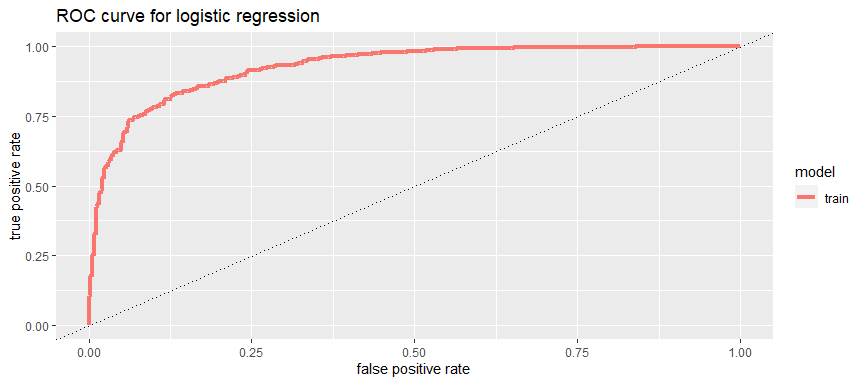
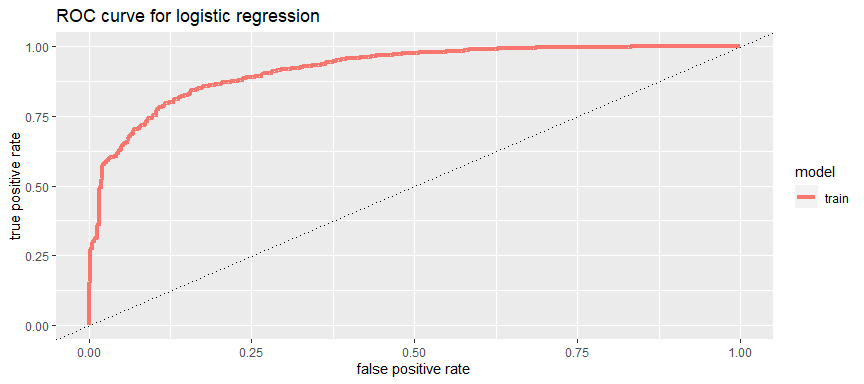
Edited some x-variables

diff --git a/Abizer.md b/Abizer.md
@@ -28,17 +28,25 @@ set as Democrat if winner16 is Dem and Republican if winner16 is Rep
 ```
 
 We chose the x-variables by determining which variables were most
-significant using a regression analysis
+significant using a regression analysis. We then removed certain
+variables such as Percent living in multi unit housing and percent
+living in same house for multiple years. Our reasoning is that if a
+house has a high median value, the occupants will probably have separate
+rooms. Also any person may choose to live in a house for several years
+because it might be closer to work, family etc. We don’t think that it
+suggests anything about the voter.
 
 ``` r
 > library(plyr)
-> train1 <- train %>% plyr::rename(c("RTN130207"="Retail_Sales_07","INC910213"="Income_per_capita","HSG096213"="Percent_multi_unit_housing","HSG495213"="Median_house_value","POP815213"="Spoken_non_english_lang","EDU635213"="Percent_Highschool_grad","EDU685213"="Percent_Undergrad","POP715213"="Percent_living_in_same_house_multiple_years","AGE295214"="percent_under_18","AGE775214"="percent_over_65","PST120214"="percent_change_in_pop"))
+> train1 <- train %>% plyr::rename(c("RTN130207"="Retail_Sales_07","INC910213"="Income_per_capita","HSG096213"="Percent_multi_unit_housing","POP715213"="Percent_living_in_same_house_multiple_years","HSG495213"="Median_house_value","POP815213"="Spoken_non_english_lang","EDU635213"="Percent_Highschool_grad","EDU685213"="Percent_Undergrad","AGE295214"="percent_under_18","AGE775214"="percent_over_65","PST120214"="percent_change_in_pop"))
 > 
-> test1 <- test %>% plyr::rename(c("RTN130207"="Retail_Sales_07","INC910213"="Income_per_capita","HSG096213"="Percent_multi_unit_housing","HSG495213"="Median_house_value","POP815213"="Spoken_non_english_lang","EDU635213"="Percent_Highschool_grad","EDU685213"="Percent_Undergrad","POP715213"="Percent_living_in_same_house_multiple_years","AGE295214"="percent_under_18","AGE775214"="percent_over_65","PST120214"="percent_change_in_pop"))
+> test1 <- test %>% plyr::rename(c("RTN130207"="Retail_Sales_07","INC910213"="Income_per_capita","HSG096213"="Percent_multi_unit_housing","HSG495213"="Median_house_value","POP815213"="Spoken_non_english_lang","EDU635213"="Percent_Highschool_grad","POP715213"="Percent_living_in_same_house_multiple_years","EDU685213"="Percent_Undergrad","AGE295214"="percent_under_18","AGE775214"="percent_over_65","PST120214"="percent_change_in_pop")) 
 > 
-> Train1 <- train1 %>% select(Retail_Sales_07, Income_per_capita, Percent_multi_unit_housing, Median_house_value, Spoken_non_english_lang, Percent_Highschool_grad, Percent_Undergrad, Percent_living_in_same_house_multiple_years, percent_under_18, percent_over_65, percent_change_in_pop,winner)
+> Train1 <- train1 %>% select(Retail_Sales_07, Income_per_capita, Median_house_value, Spoken_non_english_lang, Percent_Highschool_grad, Percent_Undergrad,  percent_under_18, percent_over_65, percent_change_in_pop,winner)
 > 
-> xvars <- str_c(names(Train1)[1:11], collapse="+")
+> Test1 <- test1 %>% select(Retail_Sales_07, Income_per_capita, Median_house_value, Spoken_non_english_lang, Percent_Highschool_grad, Percent_Undergrad,  percent_under_18, percent_over_65, percent_change_in_pop)
+> 
+> xvars <- str_c(names(Train1)[1:9], collapse="+")
 > myform <- as.formula(str_c("winner ~ ", xvars))
 > 
 > winner.glm <- glm(myform, data = Train1, family = binomial)
@@ -50,43 +58,28 @@ glm(formula = myform, family = binomial, data = Train1)
 
 Deviance Residuals: 
     Min       1Q   Median       3Q      Max  
--3.2543   0.1038   0.2097   0.3633   3.5090  
+-3.0409   0.1223   0.2359   0.3907   4.5720  
 
 Coefficients:
-                                              Estimate Std. Error z value
-(Intercept)                                  3.677e+00  2.400e+00   1.532
-Retail_Sales_07                             -1.120e-07  3.028e-08  -3.699
-Income_per_capita                            3.043e-04  3.339e-05   9.114
-Percent_multi_unit_housing                  -9.933e-02  1.355e-02  -7.329
-Median_house_value                          -1.336e-05  1.917e-06  -6.971
-Spoken_non_english_lang                     -4.140e-02  7.666e-03  -5.400
-Percent_Highschool_grad                      6.898e-02  1.896e-02   3.638
-Percent_Undergrad                           -1.938e-01  1.920e-02 -10.091
-Percent_living_in_same_house_multiple_years -1.490e-01  2.348e-02  -6.347
-percent_under_18                             1.413e-01  3.317e-02   4.260
-percent_over_65                              1.709e-01  3.277e-02   5.215
-percent_change_in_pop                        1.831e-01  2.849e-02   6.426
-                                            Pr(>|z|)    
-(Intercept)                                 0.125438    
-Retail_Sales_07                             0.000216 ***
-Income_per_capita                            < 2e-16 ***
-Percent_multi_unit_housing                  2.32e-13 ***
-Median_house_value                          3.16e-12 ***
-Spoken_non_english_lang                     6.66e-08 ***
-Percent_Highschool_grad                     0.000275 ***
-Percent_Undergrad                            < 2e-16 ***
-Percent_living_in_same_house_multiple_years 2.20e-10 ***
-percent_under_18                            2.04e-05 ***
-percent_over_65                             1.84e-07 ***
-percent_change_in_pop                       1.31e-10 ***
+                          Estimate Std. Error z value Pr(>|z|)    
+(Intercept)             -9.569e+00  1.492e+00  -6.413 1.43e-10 ***
+Retail_Sales_07         -2.093e-07  3.216e-08  -6.508 7.64e-11 ***
+Income_per_capita        2.643e-04  3.059e-05   8.638  < 2e-16 ***
+Median_house_value      -1.381e-05  1.856e-06  -7.439 1.01e-13 ***
+Spoken_non_english_lang -3.201e-02  6.960e-03  -4.599 4.24e-06 ***
+Percent_Highschool_grad  7.551e-02  1.761e-02   4.288 1.80e-05 ***
+Percent_Undergrad       -1.959e-01  1.810e-02 -10.823  < 2e-16 ***
+percent_under_18         1.186e-01  2.902e-02   4.085 4.40e-05 ***
+percent_over_65          1.733e-01  2.713e-02   6.389 1.67e-10 ***
+percent_change_in_pop    2.001e-01  2.664e-02   7.510 5.93e-14 ***
 ---
 Signif. codes:  0 '***' 0.001 '**' 0.01 '*' 0.05 '.' 0.1 ' ' 1
 
 (Dispersion parameter for binomial family taken to be 1)
 
     Null deviance: 2120.3  on 2488  degrees of freedom
-Residual deviance: 1126.6  on 2477  degrees of freedom
-AIC: 1150.6
+Residual deviance: 1204.7  on 2479  degrees of freedom
+AIC: 1224.7
 
 Number of Fisher Scoring iterations: 6
 ```
@@ -104,7 +97,7 @@ and recall for the model. Then, we created a double density curve
 > 
 > train %>% summarize(accuracy = mean(winner == prediction), precision = sum(winner == "Republican" & prediction == "Republican")/sum(prediction == "Republican"), recall = sum(winner == "Republican" & prediction == "Republican")/sum(winner == "Republican"))
    accuracy precision    recall
-1 0.8782644 0.8757273 0.9981052
+1 0.8734431 0.8713813 0.9981052
 > 
 > ggplot(train,aes(x = probs, color = winner)) + geom_density(size = 1.5) + ggtitle("Forecasted Winner Probabilities ")
 ```
@@ -138,10 +131,13 @@ a 0.05 threshold
 ``` r
 > set.seed(5)
 > cost <- function(y, pi) 1-mean(y==(pi>0.05))
-> train_error <- cv.glm(data = train, winner.glm,cost,5)
+> train_error <- cv.glm(data = Train1, winner.glm,cost,5)
+Warning: glm.fit: fitted probabilities numerically 0 or 1 occurred
 > train_error$delta[1]
-[1] 0.1221374
+[1] 0.1289675
 ```
+
+The error is 0.13
 
 Random Forest
 
@@ -161,8 +157,10 @@ and error for the training data predictions
 > 
 > train3 %>% summarize(accuracy = mean(winner == prediction), precision = sum(winner == "Republican" & prediction == "Republican")/sum(prediction == "Republican"), recall = sum(winner == "Republican" & prediction == "Republican")/sum(winner == "Republican"), error = 1-accuracy)
    accuracy precision    recall      error
-1 0.9144235 0.9341263 0.9673141 0.08557654
+1 0.9067899 0.9284086 0.9644718 0.09321012
 ```
+
+The error is 0.0932 and the accuracy is 0.907
 
 Here, we used the k nearest neighbours model with k = 10. We then
 compute the accuracy, precision, recall and error for the model K-nn
@@ -171,25 +169,27 @@ compute the accuracy, precision, recall and error for the model K-nn
 > set.seed(7)
 > n <- nrow(train)
 > 
-> xvars <- str_c(names(Train1)[1:11], collapse=",")
+> xvars <- str_c(names(Train1)[1:9], collapse=",")
 > 
 > train_index <- sample(1:n, size=round(.8*n))
 > 
-> trainX <- train1 %>% slice(train_index) %>% select( -winner,-winner16)
+> trainX <- Train1 %>% slice(train_index) %>% select( -winner)
 > 
-> testX <- test1 %>% slice(-train_index) 
+> testX <- Test1 %>% slice(-train_index) 
 > 
 > dim(trainX)
-[1] 1991   51
+[1] 1991    9
 > dim(testX)
-[1] 123  51
+[1] 123   9
 > winner_knn <- knn(trainX,testX,cl = train$winner[train_index],k=10)
 > 
-> winner_knn.cv <- knn.cv(Train1[,c("Retail_Sales_07", "Income_per_capita", "Percent_multi_unit_housing", "Median_house_value", "Spoken_non_english_lang", "Percent_Highschool_grad", "Percent_Undergrad", "Percent_living_in_same_house_multiple_years", "percent_under_18", "percent_over_65", "percent_change_in_pop")],cl = Train1$winner,k=10)
+> winner_knn.cv <- knn.cv(Train1[,c("Retail_Sales_07", "Income_per_capita", "Median_house_value", "Spoken_non_english_lang", "Percent_Highschool_grad", "Percent_Undergrad",  "percent_under_18", "percent_over_65", "percent_change_in_pop")],cl = Train1$winner,k=10)
 > 
 > train_knn <- data_frame(y = Train1$winner, prediction = winner_knn.cv) 
 > 
 > train_knn %>% summarize(accuracy = mean(y == prediction), precision = sum(y == "Republican" & prediction == "Republican")/sum(prediction == "Republican"),recall = sum(y == "Republican" & prediction == "Republican")/sum(y == "Republican"), error = 1 - accuracy)
-   accuracy precision   recall     error
-1 0.8690237 0.8812473 0.977262 0.1309763
+   accuracy precision    recall     error
+1 0.8682202  0.882126 0.9748934 0.1317798
 ```
+
+Error is 0.132 and accuracy is 0.868
